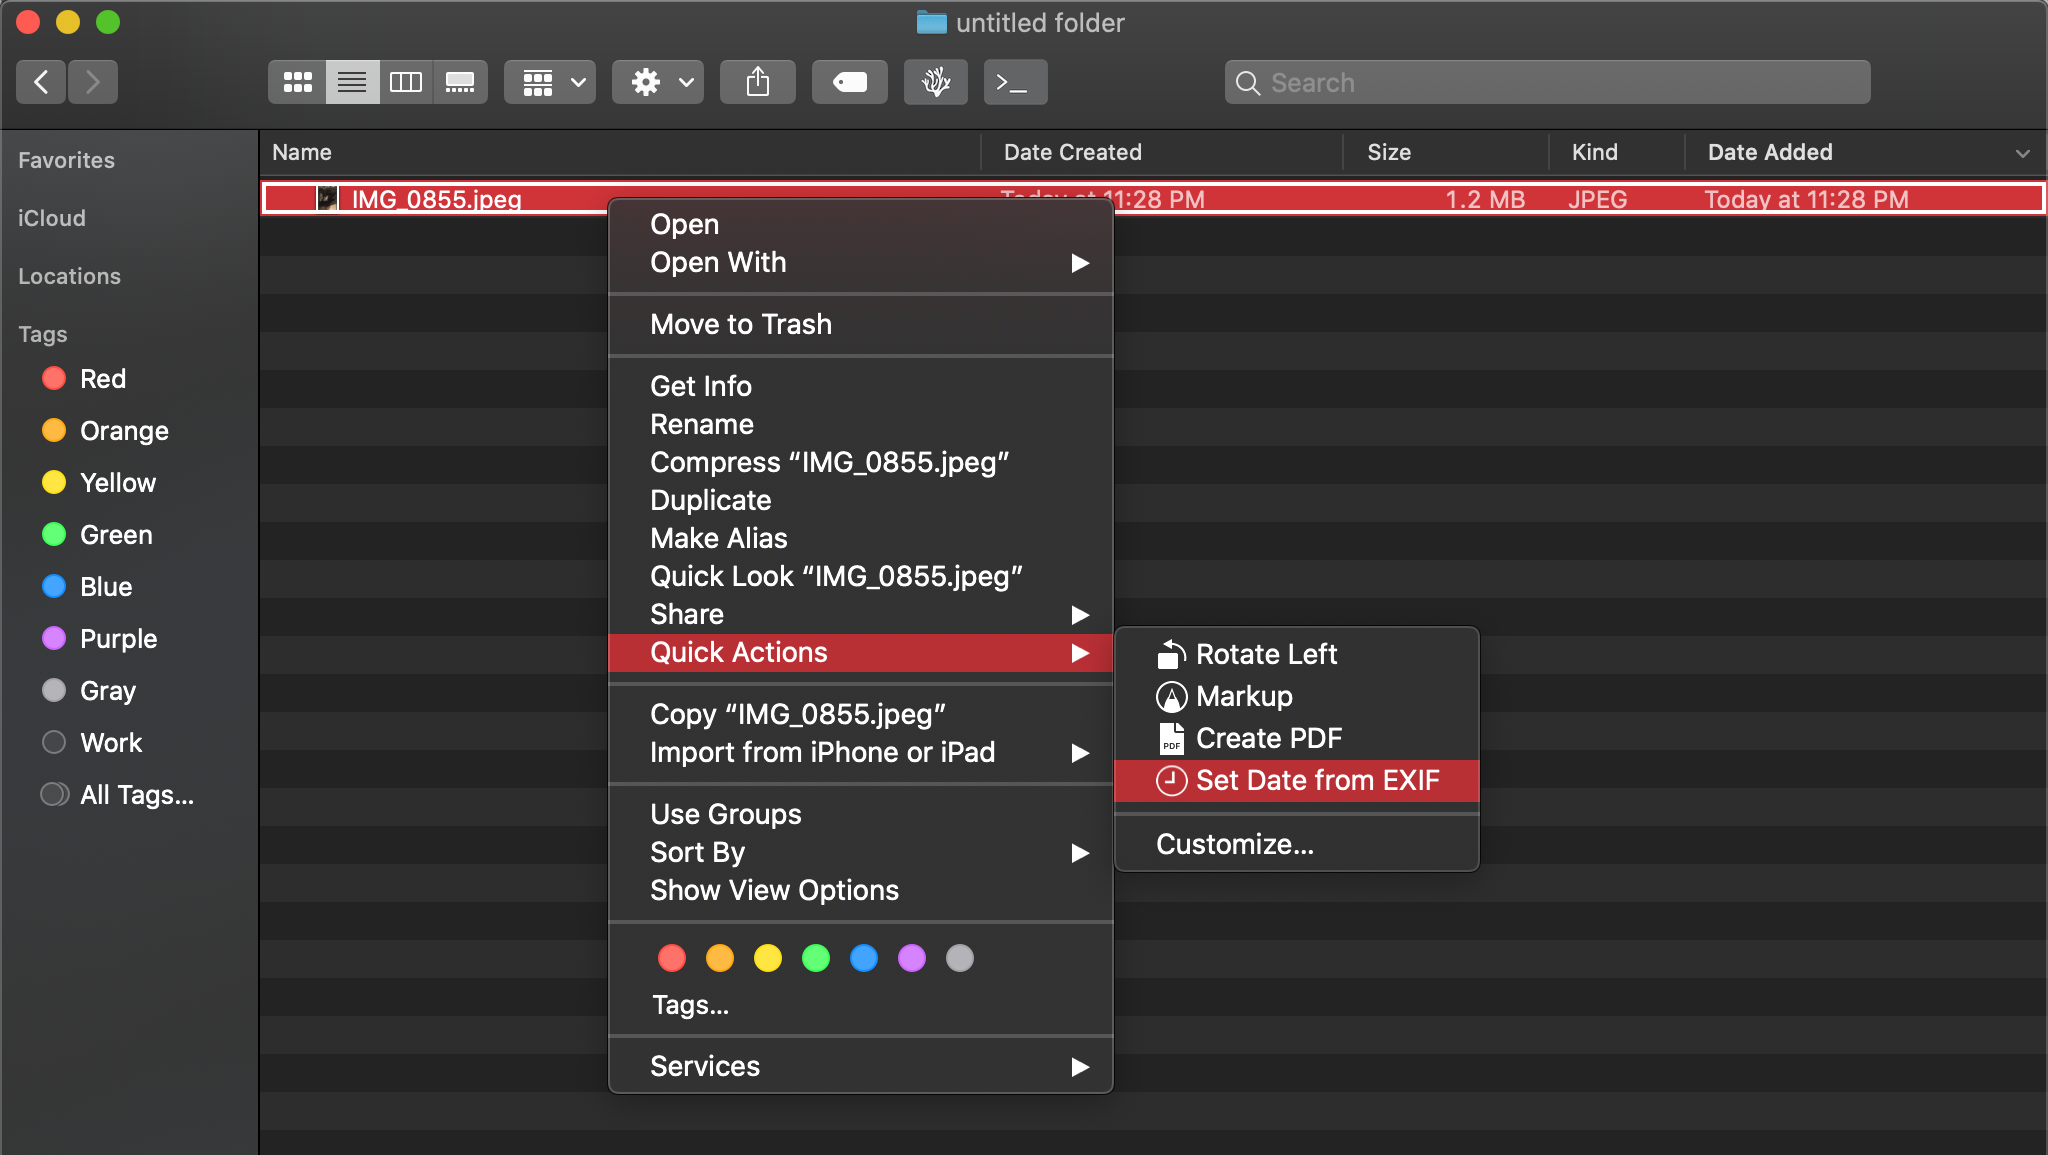
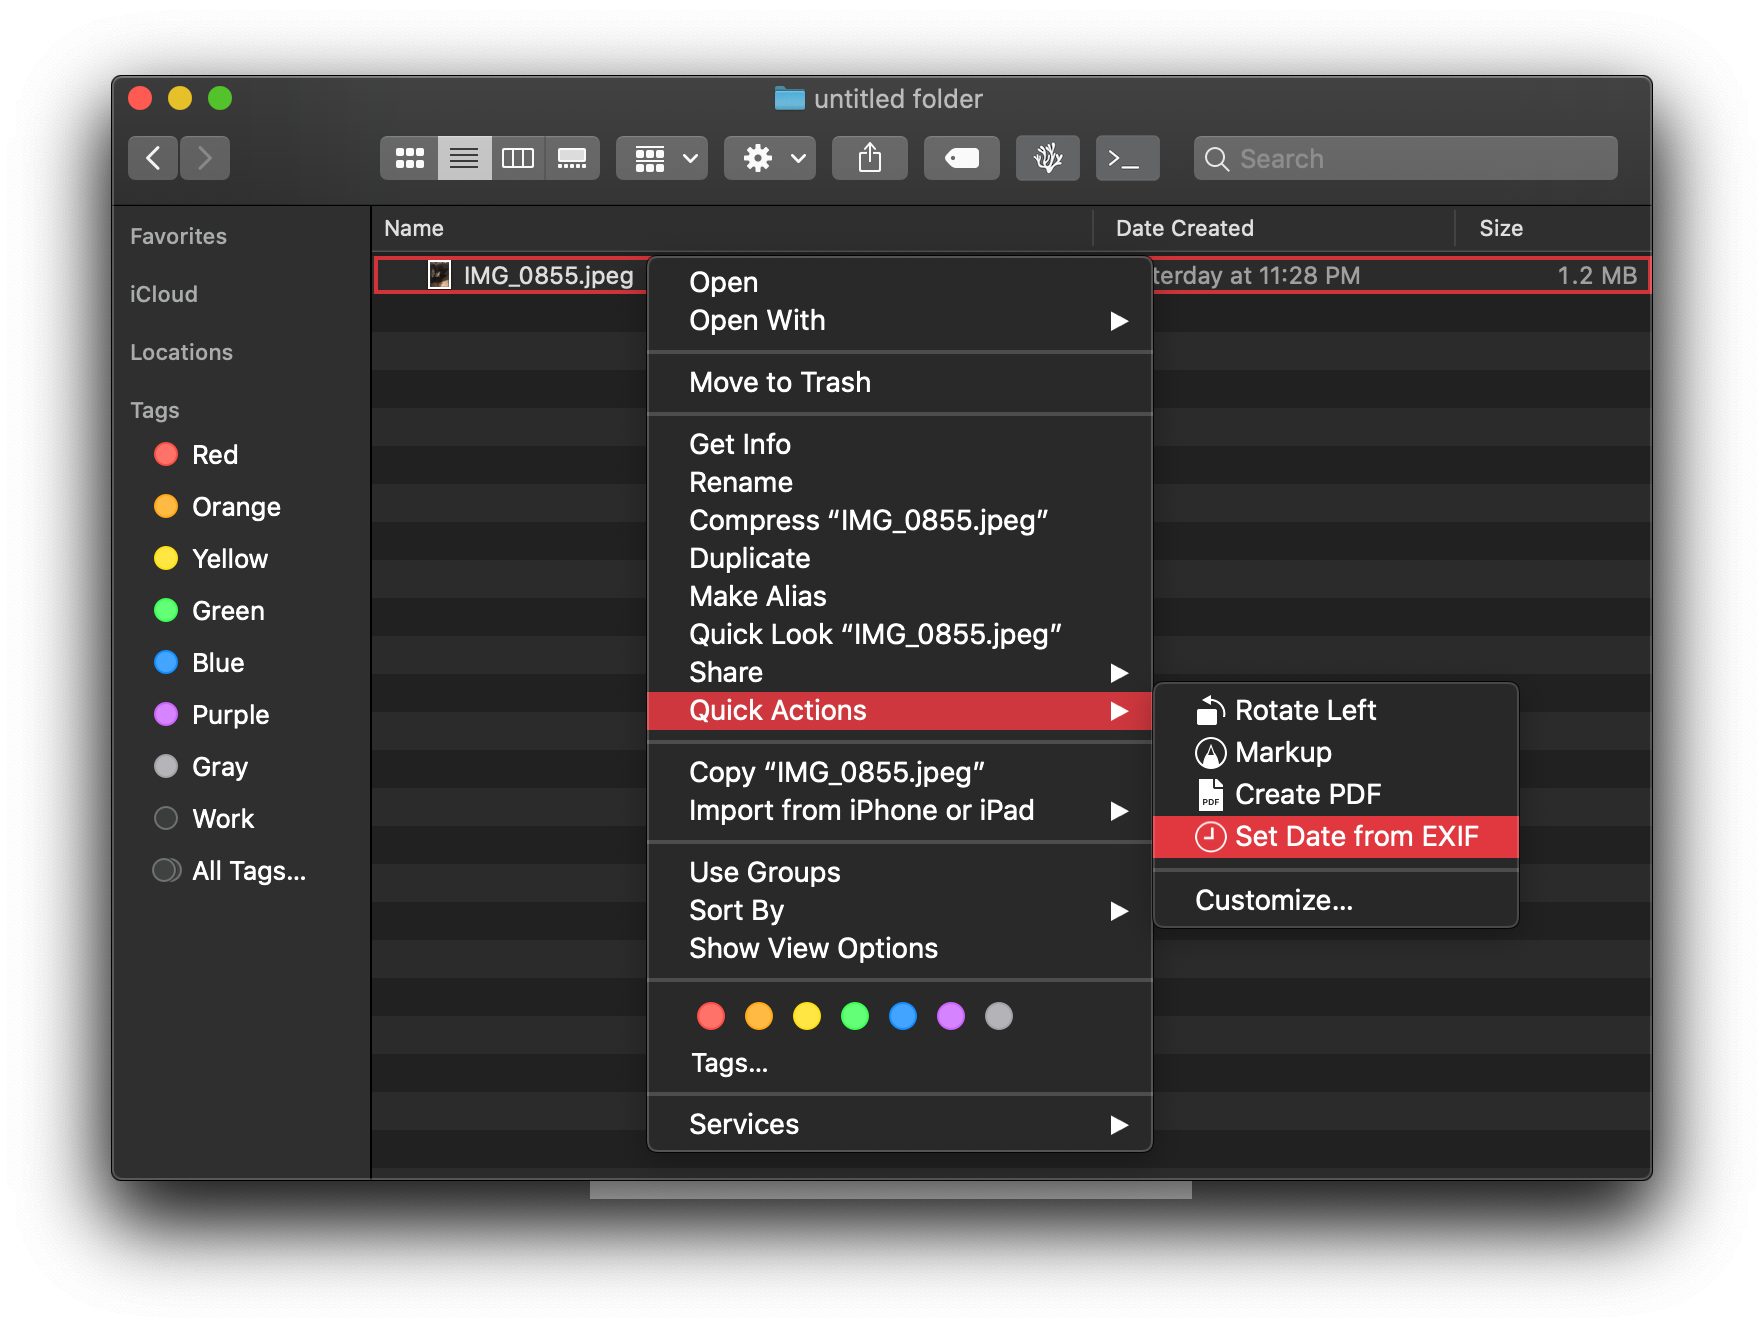
1. Changed ScreenShot02 to a better one. 2. Moved source code from README and put it in new directory as /src/script.sh.

diff --git a/README.md b/README.md
@@ -36,49 +36,4 @@ Please let me know your system version if it doesn't work for you.
 
 The actual work is done in a shell script, which takes *selected files and folders* in *Finder* as input.
 
-The shell script is here:
-
-```shell
-#!/bin/zsh
-change_date()
-{
-	# Get date from EXIF using 'mdls' command
-	exifDate="$(mdls -name kMDItemContentCreationDate -raw "$1")"
-	# Change date to timezone on host computer
-	exifDate="$(date -jf "%Y-%m-%d %T %z" "$exifDate" +"%Y-%m-%d %T %z")"
-
-	# Format date for 'touch' command
-	exifDate="${exifDate:0:16}"
-	exifDate="${exifDate//"-"}"
-	exifDate="${exifDate//" "}"
-	exifDate="${exifDate//":"}"
-	# echo "$exifDate"
-
-	# Change "Date Created" using 'touch' command
-	touch -ct "$exifDate" "$1"
-	# echo Success!
-}
-
-for i in "$@"; do
-	# If selected item is directory
-	if [[ -d "$i" ]]; then
-		cd "$i"
-		# Method to recursively loop through files/dirs even with names that contain whitespace
-		find . -type f -print0 |
-		while IFS= read -r -d '' file; do
-			# Check if file is image
-			if [[ $(file "$file" | grep -i image) != "" ]]; then
-				change_date "$file"
-			fi
-		done
-	# if selected item is file
-	elif [[ -f "$i" ]]; then
-		# Check if file is image
-		if [[ $(file "$i" | grep -i image) != "" ]]; then
-			change_date "$i"
-		fi
-	fi
-done
-```
-
-This is my first time actually writing a shell script, so definitely prone to errors and not following best-practices; welcome to any critism for improvements.
+This is my first time actually writing a shell script, so definitely prone to errors and not following best-practices; welcome to any critism/suggestions on improvements.
